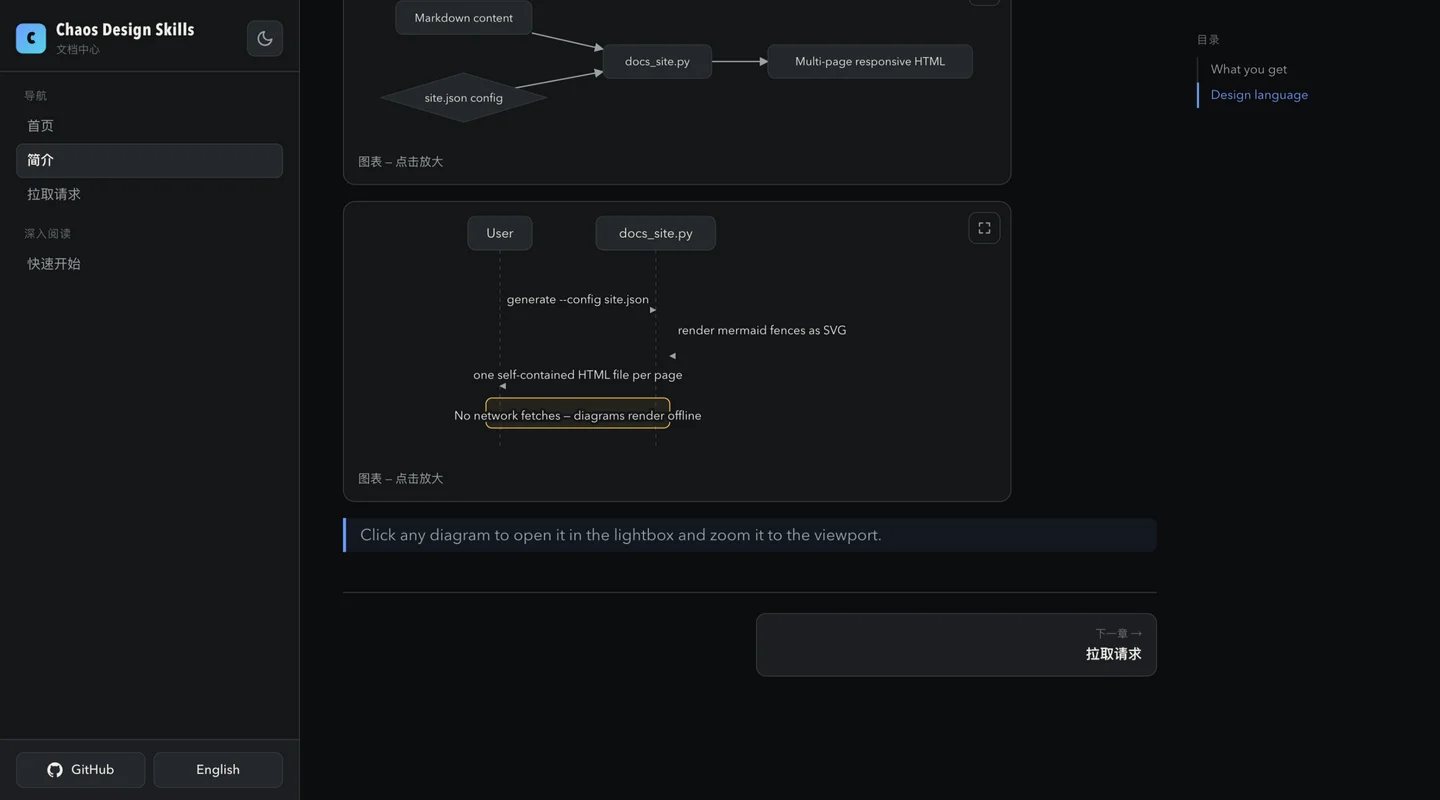
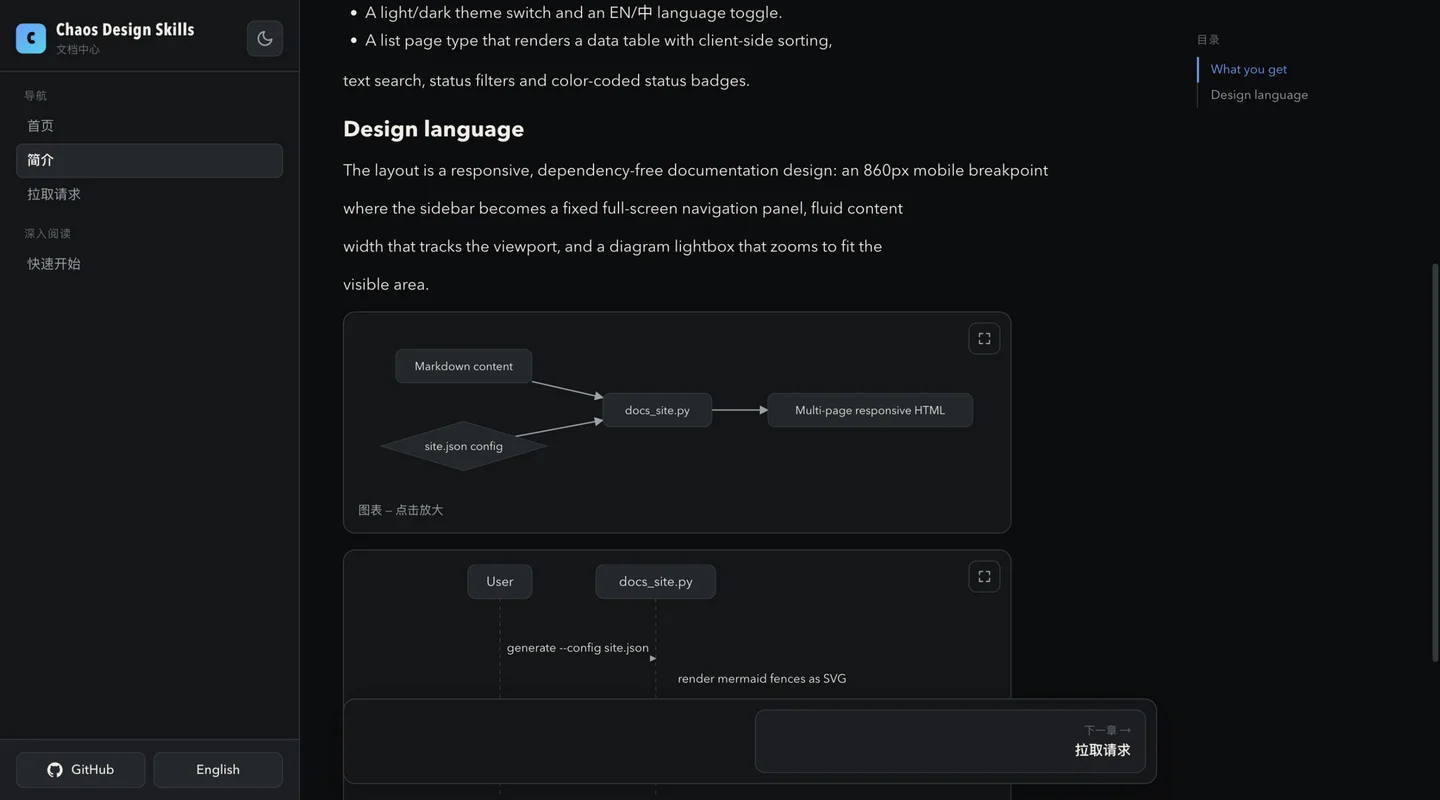
feat(docs-site): pin the chapter pager to the viewport bottom
The prev/next pager sat at the end of the document, so the next-chapter
button was only reachable after scrolling all the way down. The bar is now
position: sticky; bottom: 16px inside the content column — a floating
surface card that stays pinned while reading and settles into its flow
position at the page end. The content column drops its own bottom padding
so the sticky line matches the viewport edge (the article padding keeps the
end-of-page breathing room), and mobile offsets by the safe-area inset.

desktop-toc-pager screenshot re-captured mid-reading with the bar pinned;
SKILL.md, design.md and both READMEs updated for the pinned wording; site
data re-synced.

diff --git a/tests/docs-site/introduction.html b/tests/docs-site/introduction.html
@@ -93,7 +93,7 @@ svg.theme-icon-sun{display:none}
 .header-github:focus-visible,.nav-link:focus-visible{outline:2px solid var(--accent);outline-offset:2px}
 /* content: owns its scrollbar, spans the available column */
 .content{height:100%;min-height:0;overflow-y:auto;overscroll-behavior:contain;
-  padding:0 0 80px}
+  padding:0}
 .content-inner{padding:clamp(20px,3vw,56px);padding-top:32px}
 .crumb{font-family:var(--mono);font-size:12px;color:var(--faint);margin-bottom:10px}
 .page-title{font-size:clamp(26px,4vw,40px);line-height:1.1;margin:4px 0 10px;font-weight:750}
@@ -112,9 +112,12 @@ svg.theme-icon-sun{display:none}
 .toc-list a:hover{color:var(--ink);text-decoration:none}
 .toc-list a.is-active{color:var(--accent);border-left-color:var(--accent)}
 .toc-list .toc-l3 a{padding-left:26px}
-/* bottom prev/next chapter pager */
-.page-pager{display:flex;gap:12px;margin-top:40px;border-top:1px solid var(--line);
-  padding-top:20px}
+/* bottom prev/next chapter pager: sticky to the viewport bottom while
+   reading, settling into its flow position at the end of the page */
+.page-pager{display:flex;gap:10px;margin-top:40px;padding:10px;
+  position:sticky;bottom:16px;z-index:10;
+  background:var(--surface);border:1px solid var(--line);border-radius:12px;
+  box-shadow:0 10px 30px rgba(0,0,0,.25)}
 .pager-link{flex:1;display:flex;flex-direction:column;gap:2px;min-width:0;
   padding:12px 14px;border:1px solid var(--line);border-radius:10px;
   background:var(--surface-2);color:var(--ink);text-decoration:none;
@@ -267,7 +270,7 @@ blockquote{border-left:3px solid var(--accent);margin:12px 0;padding:6px 14px;
   /* the toc rail is a desktop affordance; the pager stacks instead */
   .content-inner.has-toc{display:block}
   .toc{display:none}
-  .page-pager{flex-direction:column}
+  .page-pager{flex-direction:column;bottom:calc(10px + env(safe-area-inset-bottom))}
   .pager-empty{display:none}
   .pager-next{text-align:left;align-items:flex-start}
 }

diff --git a/tests/docs-site/pull-requests.html b/tests/docs-site/pull-requests.html
@@ -93,7 +93,7 @@ svg.theme-icon-sun{display:none}
 .header-github:focus-visible,.nav-link:focus-visible{outline:2px solid var(--accent);outline-offset:2px}
 /* content: owns its scrollbar, spans the available column */
 .content{height:100%;min-height:0;overflow-y:auto;overscroll-behavior:contain;
-  padding:0 0 80px}
+  padding:0}
 .content-inner{padding:clamp(20px,3vw,56px);padding-top:32px}
 .crumb{font-family:var(--mono);font-size:12px;color:var(--faint);margin-bottom:10px}
 .page-title{font-size:clamp(26px,4vw,40px);line-height:1.1;margin:4px 0 10px;font-weight:750}
@@ -112,9 +112,12 @@ svg.theme-icon-sun{display:none}
 .toc-list a:hover{color:var(--ink);text-decoration:none}
 .toc-list a.is-active{color:var(--accent);border-left-color:var(--accent)}
 .toc-list .toc-l3 a{padding-left:26px}
-/* bottom prev/next chapter pager */
-.page-pager{display:flex;gap:12px;margin-top:40px;border-top:1px solid var(--line);
-  padding-top:20px}
+/* bottom prev/next chapter pager: sticky to the viewport bottom while
+   reading, settling into its flow position at the end of the page */
+.page-pager{display:flex;gap:10px;margin-top:40px;padding:10px;
+  position:sticky;bottom:16px;z-index:10;
+  background:var(--surface);border:1px solid var(--line);border-radius:12px;
+  box-shadow:0 10px 30px rgba(0,0,0,.25)}
 .pager-link{flex:1;display:flex;flex-direction:column;gap:2px;min-width:0;
   padding:12px 14px;border:1px solid var(--line);border-radius:10px;
   background:var(--surface-2);color:var(--ink);text-decoration:none;
@@ -267,7 +270,7 @@ blockquote{border-left:3px solid var(--accent);margin:12px 0;padding:6px 14px;
   /* the toc rail is a desktop affordance; the pager stacks instead */
   .content-inner.has-toc{display:block}
   .toc{display:none}
-  .page-pager{flex-direction:column}
+  .page-pager{flex-direction:column;bottom:calc(10px + env(safe-area-inset-bottom))}
   .pager-empty{display:none}
   .pager-next{text-align:left;align-items:flex-start}
 }

diff --git a/tests/docs-site/quick-start.html b/tests/docs-site/quick-start.html
@@ -93,7 +93,7 @@ svg.theme-icon-sun{display:none}
 .header-github:focus-visible,.nav-link:focus-visible{outline:2px solid var(--accent);outline-offset:2px}
 /* content: owns its scrollbar, spans the available column */
 .content{height:100%;min-height:0;overflow-y:auto;overscroll-behavior:contain;
-  padding:0 0 80px}
+  padding:0}
 .content-inner{padding:clamp(20px,3vw,56px);padding-top:32px}
 .crumb{font-family:var(--mono);font-size:12px;color:var(--faint);margin-bottom:10px}
 .page-title{font-size:clamp(26px,4vw,40px);line-height:1.1;margin:4px 0 10px;font-weight:750}
@@ -112,9 +112,12 @@ svg.theme-icon-sun{display:none}
 .toc-list a:hover{color:var(--ink);text-decoration:none}
 .toc-list a.is-active{color:var(--accent);border-left-color:var(--accent)}
 .toc-list .toc-l3 a{padding-left:26px}
-/* bottom prev/next chapter pager */
-.page-pager{display:flex;gap:12px;margin-top:40px;border-top:1px solid var(--line);
-  padding-top:20px}
+/* bottom prev/next chapter pager: sticky to the viewport bottom while
+   reading, settling into its flow position at the end of the page */
+.page-pager{display:flex;gap:10px;margin-top:40px;padding:10px;
+  position:sticky;bottom:16px;z-index:10;
+  background:var(--surface);border:1px solid var(--line);border-radius:12px;
+  box-shadow:0 10px 30px rgba(0,0,0,.25)}
 .pager-link{flex:1;display:flex;flex-direction:column;gap:2px;min-width:0;
   padding:12px 14px;border:1px solid var(--line);border-radius:10px;
   background:var(--surface-2);color:var(--ink);text-decoration:none;
@@ -267,7 +270,7 @@ blockquote{border-left:3px solid var(--accent);margin:12px 0;padding:6px 14px;
   /* the toc rail is a desktop affordance; the pager stacks instead */
   .content-inner.has-toc{display:block}
   .toc{display:none}
-  .page-pager{flex-direction:column}
+  .page-pager{flex-direction:column;bottom:calc(10px + env(safe-area-inset-bottom))}
   .pager-empty{display:none}
   .pager-next{text-align:left;align-items:flex-start}
 }

diff --git a/skills/docs-site/scripts/docs_site.py b/skills/docs-site/scripts/docs_site.py
@@ -719,7 +719,7 @@ svg.theme-icon-sun{display:none}
 .header-github:focus-visible,.nav-link:focus-visible{outline:2px solid var(--accent);outline-offset:2px}
 /* content: owns its scrollbar, spans the available column */
 .content{height:100%;min-height:0;overflow-y:auto;overscroll-behavior:contain;
-  padding:0 0 80px}
+  padding:0}
 .content-inner{padding:clamp(20px,3vw,56px);padding-top:32px}
 .crumb{font-family:var(--mono);font-size:12px;color:var(--faint);margin-bottom:10px}
 .page-title{font-size:clamp(26px,4vw,40px);line-height:1.1;margin:4px 0 10px;font-weight:750}
@@ -738,9 +738,12 @@ svg.theme-icon-sun{display:none}
 .toc-list a:hover{color:var(--ink);text-decoration:none}
 .toc-list a.is-active{color:var(--accent);border-left-color:var(--accent)}
 .toc-list .toc-l3 a{padding-left:26px}
-/* bottom prev/next chapter pager */
-.page-pager{display:flex;gap:12px;margin-top:40px;border-top:1px solid var(--line);
-  padding-top:20px}
+/* bottom prev/next chapter pager: sticky to the viewport bottom while
+   reading, settling into its flow position at the end of the page */
+.page-pager{display:flex;gap:10px;margin-top:40px;padding:10px;
+  position:sticky;bottom:16px;z-index:10;
+  background:var(--surface);border:1px solid var(--line);border-radius:12px;
+  box-shadow:0 10px 30px rgba(0,0,0,.25)}
 .pager-link{flex:1;display:flex;flex-direction:column;gap:2px;min-width:0;
   padding:12px 14px;border:1px solid var(--line);border-radius:10px;
   background:var(--surface-2);color:var(--ink);text-decoration:none;
@@ -893,7 +896,7 @@ blockquote{border-left:3px solid var(--accent);margin:12px 0;padding:6px 14px;
   /* the toc rail is a desktop affordance; the pager stacks instead */
   .content-inner.has-toc{display:block}
   .toc{display:none}
-  .page-pager{flex-direction:column}
+  .page-pager{flex-direction:column;bottom:calc(10px + env(safe-area-inset-bottom))}
   .pager-empty{display:none}
   .pager-next{text-align:left;align-items:flex-start}
 }

diff --git a/site/public/data/skills/docs-site/README.zh.md b/site/public/data/skills/docs-site/README.zh.md
@@ -12,14 +12,14 @@
 - **响应式 + 多页面**——视口锁定的双栏外壳中仅内容区滚动；≤860px 时启用固定顶栏与可变形汉堡键，点击遮罩或 Esc 关闭抽屉，内容宽度流式自适应不溢出；宽表格在独立容器内横向滚动，860–1200px 区间侧栏收敛为 250px。
 - **列表页类型**——数据表格，支持客户端排序（任意列，包括提交数量与最后更新时间）、全文搜索、状态筛选与彩色状态徽章，以及实时匹配计数。
 - **图表渲染 + 弹层**——` ```mermaid ` 代码块由内置零依赖渲染器绘制为内联 SVG（支持流程图与时序图，无法解析的语法回退为源码展示）。点击图表打开视口全屏弹层：超大图表缩放适配，小图保持原始尺寸不强行放大；放大后的弹层可滚动、可拖拽平移，任意局部都能看到。
-- **锚点迷你目录 + 章节切换**——含两个及以上 h2/h3 标题的文档页会在右侧显示吸顶迷你目录，带滚动高亮与锚点跳转；每页底部是上一章/下一章切换按钮，按配置页序生成并随界面语言切换。
+- **锚点迷你目录 + 章节切换**——含两个及以上 h2/h3 标题的文档页会在右侧显示吸顶迷你目录，带滚动高亮与锚点跳转；上一章/下一章切换条阅读时吸底常驻（读完自动落位），按配置页序生成并随界面语言切换。
 - **主题 + 国际化**——持久化的明暗切换（默认深色），以及可就地切换全部界面文案、导航项、列表控件与弹层按钮的中/EN 开关，并同步 `<html lang>`。
 
 ## 截图
 
 均截取自真实生成的测试页面：图表渲染、放大弹层与移动端适配。
 
-![桌面端页面：右侧吸顶锚点迷你目录，底部下一章切换按钮](https://raw.githubusercontent.com/chaos-design/skills/main/screenshots/docs-site/desktop-toc-pager.webp)
+![桌面端页面：右侧吸顶锚点迷你目录，底部吸底的下一章切换条](https://raw.githubusercontent.com/chaos-design/skills/main/screenshots/docs-site/desktop-toc-pager.webp)
 
 ![流程图以原始尺寸在弹层中打开，不强行放大](https://raw.githubusercontent.com/chaos-design/skills/main/screenshots/docs-site/lightbox-fit.webp)
 

diff --git a/skills/docs-site/README.zh-CN.md b/skills/docs-site/README.zh-CN.md
@@ -14,14 +14,14 @@
 - **响应式 + 多页面**——视口锁定的双栏外壳中仅内容区滚动；≤860px 时启用固定顶栏与可变形汉堡键，点击遮罩或 Esc 关闭抽屉，内容宽度流式自适应不溢出；宽表格在独立容器内横向滚动，860–1200px 区间侧栏收敛为 250px。
 - **列表页类型**——数据表格，支持客户端排序（任意列，包括提交数量与最后更新时间）、全文搜索、状态筛选与彩色状态徽章，以及实时匹配计数。
 - **图表渲染 + 弹层**——` ```mermaid ` 代码块由内置零依赖渲染器绘制为内联 SVG（支持流程图与时序图，无法解析的语法回退为源码展示）。点击图表打开视口全屏弹层：超大图表缩放适配，小图保持原始尺寸不强行放大；放大后的弹层可滚动、可拖拽平移，任意局部都能看到。
-- **锚点迷你目录 + 章节切换**——含两个及以上 h2/h3 标题的文档页会在右侧显示吸顶迷你目录，带滚动高亮与锚点跳转；每页底部是上一章/下一章切换按钮，按配置页序生成并随界面语言切换。
+- **锚点迷你目录 + 章节切换**——含两个及以上 h2/h3 标题的文档页会在右侧显示吸顶迷你目录，带滚动高亮与锚点跳转；上一章/下一章切换条阅读时吸底常驻（读完自动落位），按配置页序生成并随界面语言切换。
 - **主题 + 国际化**——持久化的明暗切换（默认深色），以及可就地切换全部界面文案、导航项、列表控件与弹层按钮的中/EN 开关，并同步 `<html lang>`。
 
 ## 截图
 
 均截取自真实生成的测试页面：图表渲染、放大弹层与移动端适配。
 
-<img src="../../screenshots/docs-site/desktop-toc-pager.webp" width="480" alt="桌面端页面：右侧吸顶锚点迷你目录，底部下一章切换按钮">
+<img src="../../screenshots/docs-site/desktop-toc-pager.webp" width="480" alt="桌面端页面：右侧吸顶锚点迷你目录，底部吸底的下一章切换条">
 
 <img src="../../screenshots/docs-site/lightbox-fit.webp" width="480" alt="流程图以原始尺寸在弹层中打开，不强行放大">
 

diff --git a/skills/docs-site/SKILL.md b/skills/docs-site/SKILL.md
@@ -45,8 +45,9 @@ full EN/中 UI toggle complete the design.
   (theme-aware, offline, with a graceful fallback to the source block), and
   every diagram opens in a zoom lightbox.
 - Adds a sticky right-rail mini TOC (anchor links with scrollspy highlight)
-  to doc pages that have two or more h2/h3 headings, and a bottom
-  prev/next chapter pager on every page following the config page order.
+  to doc pages that have two or more h2/h3 headings, and a prev/next chapter
+  pager pinned to the bottom of the viewport while reading (it settles into
+  place at the end of the page) on every page following the config order.
 - Re-labels the entire UI on EN/中 switch (nav, chrome, list controls,
   toc, pager, lightbox) and persists both language and theme choices to
   localStorage.
@@ -157,8 +158,9 @@ full EN/中 UI toggle complete the design.
   a `.table-scroll` wrapper instead of stretching the column.
 - Doc pages with two or more h2/h3 headings also get a sticky right-rail
   `.toc` (anchor links, scrollspy highlight, hidden below the breakpoint);
-  every page ends with a `.page-pager` linking the previous and next chapter
-  in config page order, re-labeled by the language toggle.
+  every page carries a `.page-pager` linking the previous and next chapter
+  in config page order — sticky to the viewport bottom while reading,
+  settling at the page end — re-labeled by the language toggle.
 - Mobile (≤ breakpoint, `860px` by default): a fixed `56px` top bar carries the
   brand, a GitHub icon button, a theme button, a square language pill and a
   three-bar toggle that morphs into a close cross. The sidebar becomes a

diff --git a/site/public/data/skills/docs-site/README.en.md b/site/public/data/skills/docs-site/README.en.md
@@ -38,8 +38,9 @@ are included; both persist to localStorage.
   diagrams scroll and drag to pan, so every region stays reachable.
 - **Anchor mini-TOC + chapter pager** — doc pages with two or more h2/h3
   headings get a sticky right-rail menu with scrollspy highlighting and
-  smooth anchor jumps; every page ends with prev/next chapter buttons that
-  follow the config page order and translate with the UI toggle.
+  anchor jumps; a prev/next chapter bar stays pinned to the bottom of the
+  viewport while reading (settling at the page end), follows the config page
+  order and translates with the UI toggle.
 - **Theme + i18n** — a persisted light/dark switch (dark by default) and an
   EN/中 toggle that re-labels every piece of UI chrome, nav entries, list
   controls and lightbox buttons in place, keeping `<html lang>` in sync.
@@ -49,7 +50,7 @@ are included; both persist to localStorage.
 Captured from the generated test pages: rendered diagrams, the zoom lightbox
 and the mobile breakpoint.
 
-![Desktop page with the sticky anchor mini-TOC on the right and the next-chapter button at the bottom](https://raw.githubusercontent.com/chaos-design/skills/main/screenshots/docs-site/desktop-toc-pager.webp)
+![Desktop page with the sticky anchor mini-TOC on the right and the next-chapter button pinned to the bottom](https://raw.githubusercontent.com/chaos-design/skills/main/screenshots/docs-site/desktop-toc-pager.webp)
 
 ![Flowchart opened in the lightbox at its natural size, never upscaled](https://raw.githubusercontent.com/chaos-design/skills/main/screenshots/docs-site/lightbox-fit.webp)
 

diff --git a/skills/docs-site/README.md b/skills/docs-site/README.md
@@ -40,8 +40,9 @@ are included; both persist to localStorage.
   diagrams scroll and drag to pan, so every region stays reachable.
 - **Anchor mini-TOC + chapter pager** — doc pages with two or more h2/h3
   headings get a sticky right-rail menu with scrollspy highlighting and
-  smooth anchor jumps; every page ends with prev/next chapter buttons that
-  follow the config page order and translate with the UI toggle.
+  anchor jumps; a prev/next chapter bar stays pinned to the bottom of the
+  viewport while reading (settling at the page end), follows the config page
+  order and translates with the UI toggle.
 - **Theme + i18n** — a persisted light/dark switch (dark by default) and an
   EN/中 toggle that re-labels every piece of UI chrome, nav entries, list
   controls and lightbox buttons in place, keeping `<html lang>` in sync.
@@ -51,7 +52,7 @@ are included; both persist to localStorage.
 Captured from the generated test pages: rendered diagrams, the zoom lightbox
 and the mobile breakpoint.
 
-<img src="../../screenshots/docs-site/desktop-toc-pager.webp" width="480" alt="Desktop page with the sticky anchor mini-TOC on the right and the next-chapter button at the bottom">
+<img src="../../screenshots/docs-site/desktop-toc-pager.webp" width="480" alt="Desktop page with the sticky anchor mini-TOC on the right and the next-chapter button pinned to the bottom">
 
 <img src="../../screenshots/docs-site/lightbox-fit.webp" width="480" alt="Flowchart opened in the lightbox at its natural size, never upscaled">
 

diff --git a/skills/docs-site/references/design.md b/skills/docs-site/references/design.md
@@ -56,9 +56,14 @@ language toggle.
   breakpoint the rail hides and the grid collapses.
 - `.page-pager` closes every page: two equal cards linking the previous and
   next chapter in config page order (empty slots render as hidden
-  placeholders on first/last pages). Directory captions and labels carry
-  `data-i18n` keys, so the language toggle re-labels them in place; the pager
-  stacks vertically on mobile.
+  placeholders on first/last pages). The bar is `position: sticky;
+  bottom: 16px` inside the content column — a floating surface card that
+  pins to the viewport bottom while reading and settles into its flow
+  position at the page end (the content column keeps no bottom padding, so
+  the sticky line matches the viewport edge; the article's own padding
+  provides the end-of-page breathing room). Directory captions and labels
+  carry `data-i18n` keys, so the language toggle re-labels them in place;
+  the pager stacks vertically on mobile with a safe-area offset.
 
 ## Mobile top bar and dropdown
 
